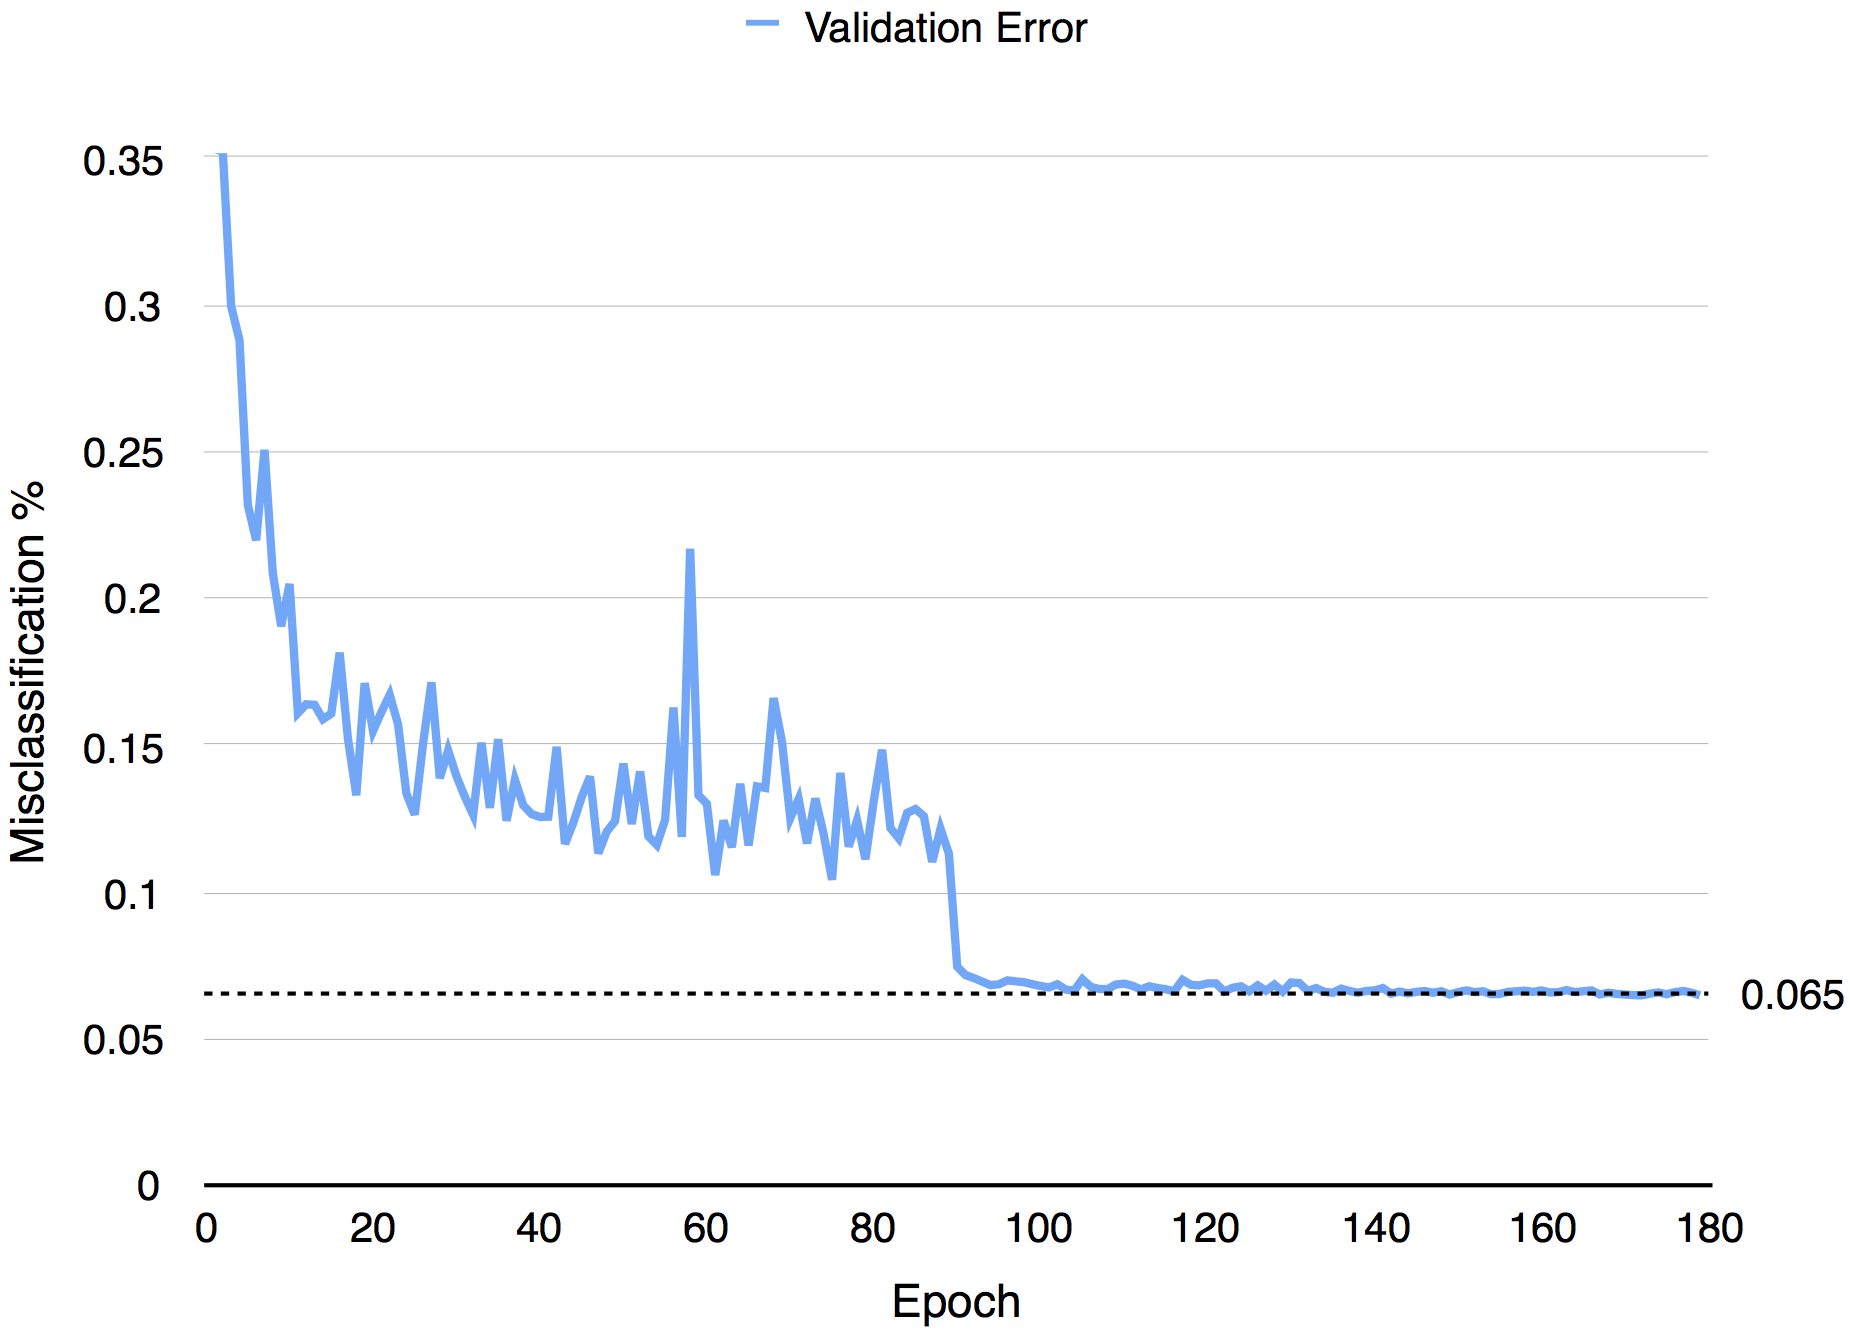
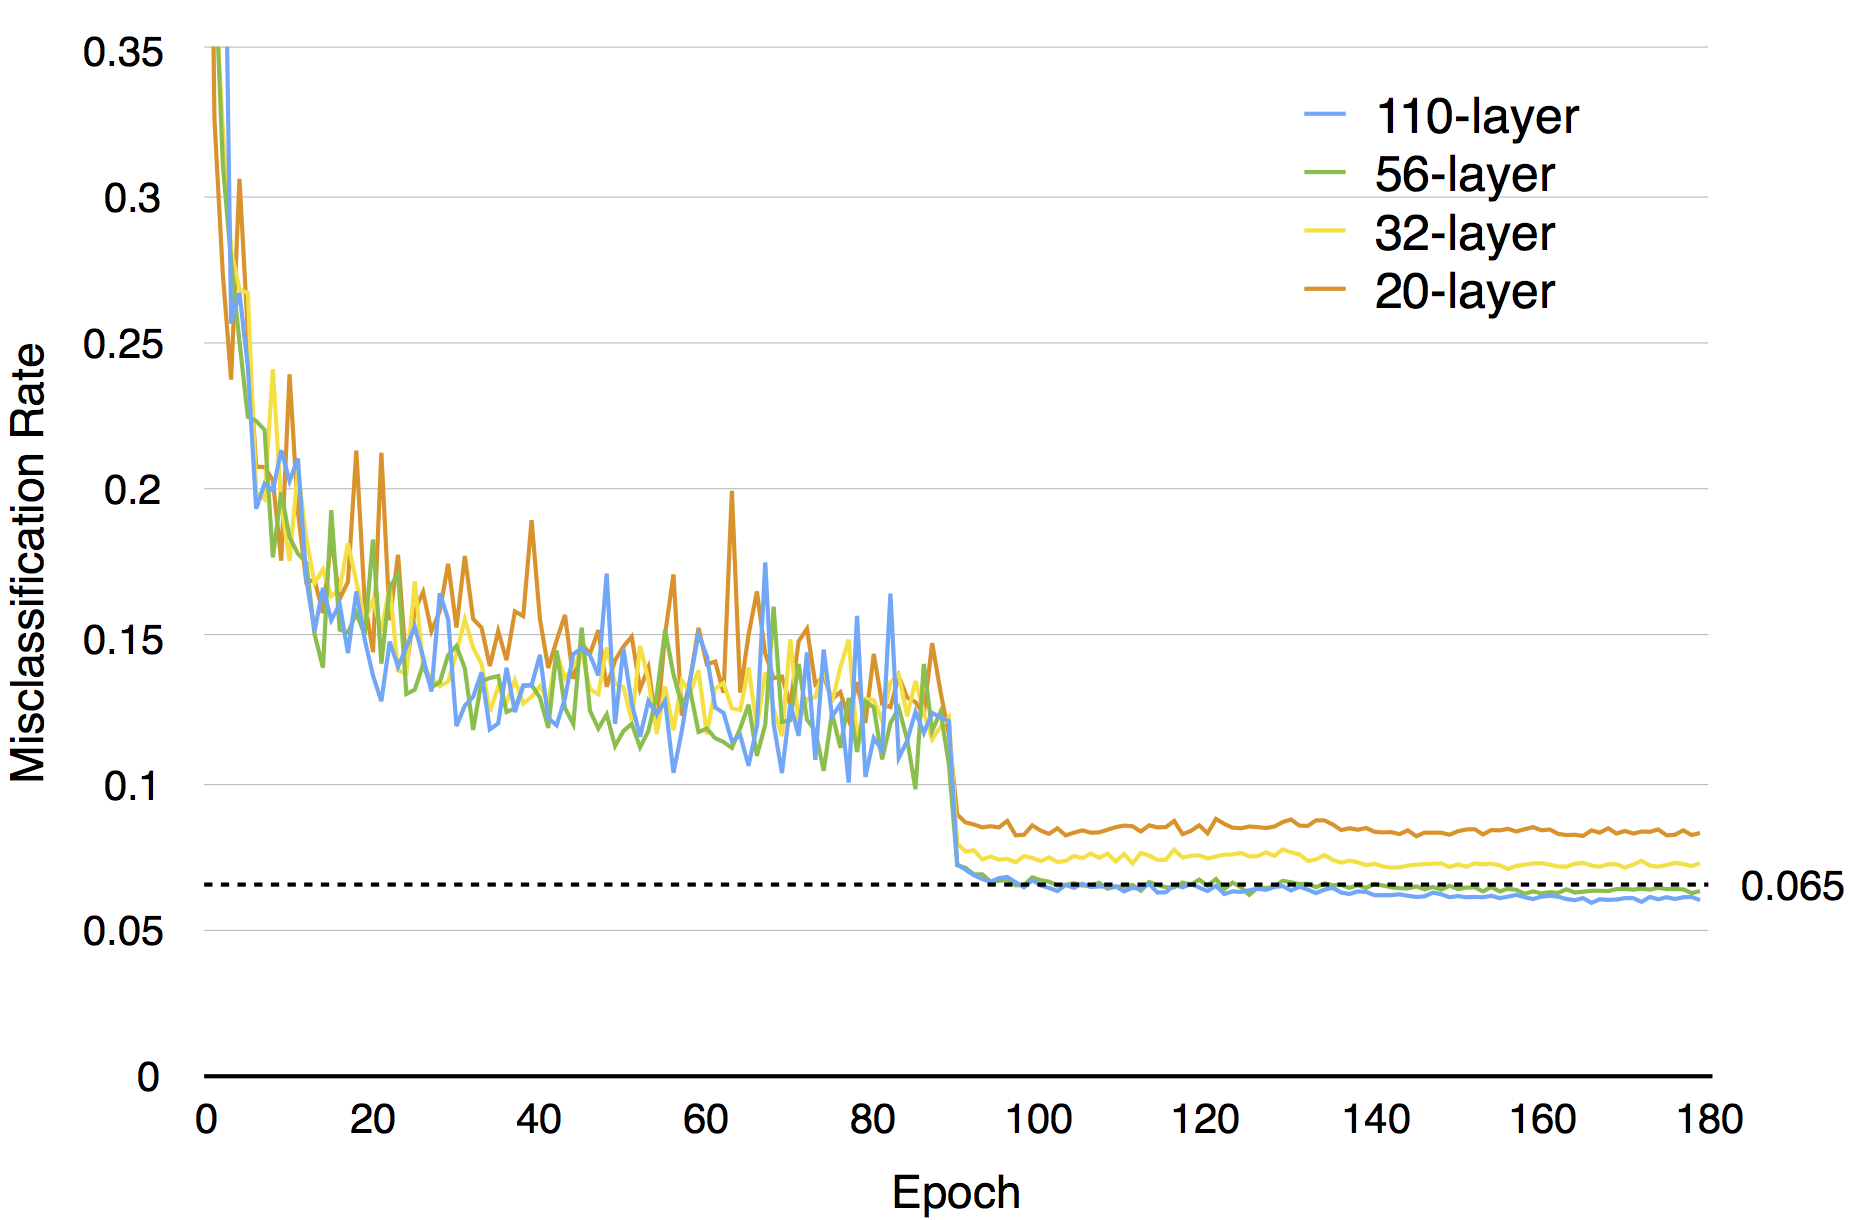
Update readme and figures to include different depths

diff --git a/README.md b/README.md
@@ -5,7 +5,7 @@ structured as a very deep network with skip connections designed to have convolu
 adjusting to residual activations.  The training protocol uses minimal pre-processing (mean
 subtraction) and very simple data augmentation (shuffling, flipping, and cropping).  All model
 parameters (even batch norm parameters) are updated using simple stochastic gradient descent with
-weight decay.  The learning rate is dropped only twice (at 90 and 135 epochs).  
+weight decay.  The learning rate is dropped only twice (at 90 and 135 epochs).
 
 ### Acknowledgments
 Many thanks to Dr. He and his team at MSRA for their helpful input in replicating the model as
@@ -15,18 +15,26 @@ described in their paper.
 The model train script is included ([cifar10_msra.py](./cifar10_msra.py)).
 
 ### Trained weights
-The trained weights file can be downloaded from AWS ([cifar10_msra_e180.p](https://s3-us-west-1.amazonaws.com/nervana-modelzoo/cifar10_msra_e180.p))
+The trained weights file can be downloaded from AWS
+
+| Model Depth | Model File |
+| ----------- | ---------- |
+|  20 | ([cifar10_msra_020_e180.p](https://s3-us-west-1.amazonaws.com/nervana-modelzoo/cifar10_msra_e180.p)) |
+|  32 | ([cifar10_msra_032_e180.p](https://s3-us-west-1.amazonaws.com/nervana-modelzoo/cifar10_msra_e180.p)) |
+|  56 | ([cifar10_msra_056_e180.p](https://s3-us-west-1.amazonaws.com/nervana-modelzoo/cifar10_msra_e180.p)) |
+| 110 | ([cifar10_msra_110_e180.p](https://s3-us-west-1.amazonaws.com/nervana-modelzoo/cifar10_msra_e180.p)) |
 
 ### Performance
-Training this model with the options described below should be able to achieve above 93.5% top-1
-accuracy using only mean subtraction, random cropping, and random flips.  This is roughly the same
-performance achieved in the paper with the 56-layer network.
+Training this model with the options described below should be able to achieve above 93.6% top-1
+accuracy using only mean subtraction, random cropping, and random flips.
 
 ## Instructions
 This script was tested with [neon version 1.2](https://github.com/NervanaSystems/neon/tree/v1.2.0).
 Make sure that your local repo is synced to this commit and run the [installation
 procedure](http://neon.nervanasys.com/docs/latest/user_guide.html#installation) before proceeding.
 Commit SHA for v1.2 is  `385483881ee1fe1f0445fc78d7edf5b8ddc5c8c5`
+
+In addition, we use the branch that implements the merge sum layer type.
 
 This example uses the `ImageLoader` module to load the images for consumption while applying random
 cropping, flipping, and shuffling.  Prior to beginning training, you need to write out the padded
@@ -51,8 +59,16 @@ cifar10_msra.py -r 0 -vv \
     --save_path <model-save-path> \
     --eval_freq 1 \
     --backend gpu \
-    --data_dir <path-to-saved-batches>
+    --data_dir <path-to-saved-batches> \
+    --depth <n>
 ```
+
+The depth argument is the `n` value discussed in the paper which represents the number of repeated
+residual models at each filter depth.  Since there are 3 stages at each filter depth, and each
+residual module consists of 2 convolutional layers, there will be `6n` total convolutional layers
+in the residual part of the network, plus 2 additional layers (input convolutional, and output
+linear), making the total network `6n+2` layers deep.  For depth arguments of 3, 5, 9, 18, we get
+network depths of 20, 32, 56, and 110.
 
 If you just want to run evaluation, you can use the much simpler script that loads the serialized
 model and evaluates it on the validation set:
@@ -69,7 +85,25 @@ Ubuntu 14.04.2 LTS
 GPU: GeForce GTX TITAN X
 CUDA Driver Version 7.0
 ```
-The default 56 layer configuration occupies approximately 860 Mb of gpu memory, with each epoch
-taking approximately 30 seconds.  The entire training procedure should take about 90 minutes to
-complete all 180 epochs.  The evolution of validation misclassification error can be seen in the
-figure below. ![validation error](./val_error.png)
+
+The memory usage and per-epoch training time of each network configuration, along with final
+validation error is shown in the table below.  We observed that the error rates were consistently
+lower than what was cited in the original paper.  Our hypothesis is that this may be due to our
+inclusion of a final batch norm transformation at the output affine layer.
+
+| Model Depth  | GPU Memory Footprint | Seconds per Epoch | Validation Error % |
+| ------------ | -------------------- | ----------------- | ------------------ |
+|  20 |  521 MiB | 11 | 8.29 |
+|  32 |  636 MiB | 18 | 7.26 |
+|  56 |  860 MiB | 30 | 6.31 |
+| 110 | 1277 MiB | 60 | 6.00 |
+
+The total amount of time to train the 56 layer network for 180 epochs was about 90 minutes with the
+described machine and GPU specifications.
+
+The evolution of validation misclassification error for the various layer depths can be seen in the
+figures below.
+
+![validation error](./val_error.png)
+
+![validation error zoom](./val_error_zoom.png)
